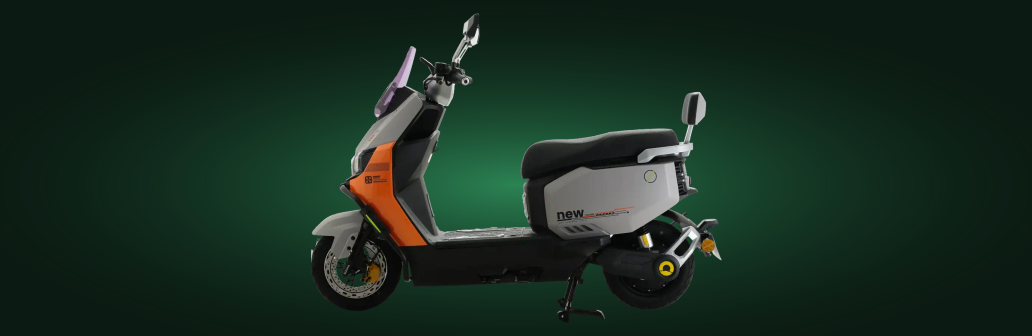
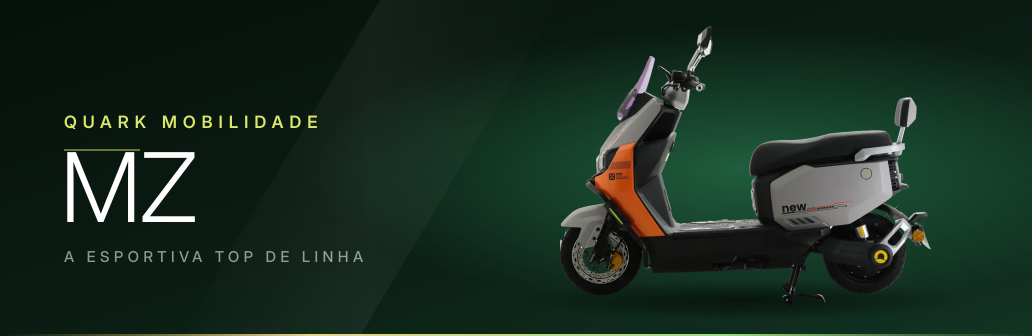
Cartão da scooter com visual premium (Google Wallet e área do cliente)
- Imagem de destaque nova por modelo: tipografia fina e espaçada, luz sobre a
  scooter, reflexo diagonal e fio dourado; logo redondo para o Google
- Frente do cartão com 2 linhas: proprietário, garantia, chassi e cor/ano;
  detalhes enxutos; links para área do cliente e assistência no WhatsApp
- Nova versão da classe/objeto (v2) para o Google aplicar o novo layout
- Cartão da área do cliente e imagem salva no mesmo visual

Claude-Session: https://claude.ai/code/session_01HxUxpawPH2uADxVLzMyBdD

diff --git a/src/components/cliente/wallet-card.tsx b/src/components/cliente/wallet-card.tsx
@@ -28,71 +28,72 @@ export function useCardQr(d: MotoData, id: string, company: { name: string; cnpj
   return qr;
 }
 
+const INTER = "var(--font-inter), 'Inter', system-ui, sans-serif";
+
 export function WalletCardView({ d, id, qr, art }: { d: MotoData; id: string; qr: string; art?: boolean }) {
   const model = vehicleName(d).replace(/^Scooter elétrica\s*/, "") || "Scooter";
   const end = d.delivery.date || d.date ? warrantyEnd(d) : "";
   const owner = d.client.name.trim().split(/\s+/).slice(0, 2).join(" ");
   const { number } = receiptNumber(id);
   const photo = d.photo || motoPhoto(d);
+  const label = { fontSize: "2.05cqw", letterSpacing: "0.22em", color: "#D9E86A", opacity: 0.8, fontWeight: 600 } as const;
   return (
     <div className="w-full [container-type:inline-size]" {...(art ? { "data-art": true } : {})}>
       <div
-        className="relative w-full overflow-hidden font-[family-name:var(--font-outfit)] text-white antialiased"
-        style={{ aspectRatio: "1.586", borderRadius: "5.5cqw", background: "#0B1A12", boxShadow: art ? "none" : "0 30px 60px -30px rgba(11,26,18,0.75)" }}
+        className="relative w-full overflow-hidden text-white antialiased"
+        style={{
+          aspectRatio: "1.586",
+          borderRadius: "4.6cqw",
+          fontFamily: INTER,
+          background: "linear-gradient(135deg, #06100A 0%, #0B1E14 55%, #133525 100%)",
+          boxShadow: art ? "none" : "0 40px 70px -34px rgba(6,16,10,0.85), inset 0 0 0 1px rgba(255,255,255,0.07)",
+        }}
       >
-        {/* brilho + scooter */}
-        <div className="absolute rounded-full" style={{ right: "-14%", top: "-8%", width: "78%", height: "120%", background: "radial-gradient(closest-side, rgba(79,195,138,0.45), rgba(79,195,138,0))" }} />
+        {/* luz sobre a scooter, reflexo diagonal e sombra no chão */}
+        <div className="absolute" style={{ right: "-12%", top: "-6%", width: "74%", height: "112%", background: "radial-gradient(closest-side, rgba(63,191,127,0.42), rgba(63,191,127,0))" }} />
+        <div className="absolute inset-y-0" style={{ left: "34%", width: "22%", transform: "skewX(-24deg)", background: "linear-gradient(90deg, rgba(255,255,255,0), rgba(255,255,255,0.05), rgba(255,255,255,0))" }} />
+        <div className="absolute rounded-[50%]" style={{ right: "6%", top: "54%", width: "46%", height: "6%", background: "radial-gradient(closest-side, rgba(0,0,0,0.55), rgba(0,0,0,0))" }} />
         {/* eslint-disable-next-line @next/next/no-img-element */}
-        <img src={photo} data-fallback="/mob/cmp-scooter.webp" alt="" className="absolute object-contain" style={{ right: "4%", top: "13%", width: "50%", height: "46%", filter: "drop-shadow(0 2cqw 2.4cqw rgba(0,0,0,0.55))" }} />
-        <div className="absolute inset-x-0 top-0" style={{ height: "1.2cqw", background: "linear-gradient(95deg,#1FA06A,#9FDB7C 60%,#D8E83C)" }} />
+        <img src={photo} data-fallback="/mob/cmp-scooter.webp" alt="" className="absolute object-contain" style={{ right: "5%", top: "9%", width: "50%", height: "50%", filter: "drop-shadow(0 1.6cqw 2cqw rgba(0,0,0,0.5))" }} />
+        <div className="absolute inset-x-0 bottom-0" style={{ height: "0.4cqw", background: "linear-gradient(90deg, rgba(201,168,74,0), #E8D48A 30%, #9FDB7C 70%, rgba(159,219,124,0))" }} />
 
-        <div className="relative flex h-full flex-col" style={{ padding: "5.5cqw 6cqw" }}>
-          <div className="flex items-center justify-between">
-            <span className="flex items-center" style={{ gap: "2cqw" }}>
-              {/* eslint-disable-next-line @next/next/no-img-element */}
-              <img src="/brand/logo-h-white.png" alt="Quark" style={{ height: "6.2cqw", width: "auto" }} />
-              <span className="font-semibold" style={{ fontSize: "4.2cqw", color: "#E4F04A" }}>
-                Mobilidade
-              </span>
-            </span>
-            <span className="font-bold tabular-nums" style={{ fontSize: "3cqw", letterSpacing: "0.08em", opacity: 0.65 }}>
+        <div className="relative flex h-full flex-col" style={{ padding: "6cqw 6.4cqw 5.4cqw" }}>
+          <div className="flex items-start justify-between">
+            <div>
+              <p style={{ fontSize: "2.3cqw", letterSpacing: "0.34em", color: "#D9E86A", fontWeight: 600 }}>QUARK MOBILIDADE</p>
+              <div style={{ width: "8cqw", height: "0.18cqw", background: "rgba(217,232,106,0.6)", margin: "1.6cqw 0 1.2cqw" }} />
+              <p className="truncate" style={{ fontSize: model.length > 8 ? "7.4cqw" : "9.4cqw", lineHeight: 1, letterSpacing: "-0.035em", fontWeight: 300, maxWidth: "48cqw" }}>
+                {model}
+              </p>
+              <p style={{ marginTop: "1.4cqw", fontSize: "1.9cqw", letterSpacing: "0.26em", opacity: 0.55, fontWeight: 500 }}>SCOOTER ELÉTRICA{d.color ? ` · ${d.color.toUpperCase()}` : ""}</p>
+            </div>
+            <span className="tabular-nums" style={{ fontSize: "2cqw", letterSpacing: "0.14em", opacity: 0.5, fontWeight: 500 }}>
               {number}
             </span>
           </div>
 
-          <div style={{ marginTop: "2.6cqw" }}>
-            <p className="font-bold uppercase" style={{ fontSize: "2.7cqw", letterSpacing: "0.18em", color: "#E4F04A" }}>
-              Scooter elétrica
-            </p>
-            <p className="truncate font-bold" style={{ fontSize: "7.6cqw", lineHeight: 1.05, letterSpacing: "-0.03em", maxWidth: "52%" }}>
-              {model}
-            </p>
-          </div>
-
           <div className="mt-auto flex items-end justify-between" style={{ gap: "4cqw" }}>
-            <div className="grid min-w-0 flex-1 grid-cols-2" style={{ columnGap: "4cqw", rowGap: "1.5cqw" }}>
+            <div className="grid min-w-0 flex-1" style={{ gridTemplateColumns: "1.35fr 0.75fr", columnGap: "3.4cqw", rowGap: "2.6cqw" }}>
               {[
-                ["Proprietário", owner || "—", true],
-                ["Chassi", d.chassis.trim().toUpperCase() || "—", true],
-                ["Garantia até", end ? dateBr(end) : "na entrega", false],
-                ["Cor · ano", [d.color, d.year].filter(Boolean).join(" · ") || "—", false],
-              ].map(([k, v, wide]) => (
-                <div key={k as string} className="min-w-0" style={wide ? { gridColumn: "span 2" } : undefined}>
-                  <p className="font-bold uppercase" style={{ fontSize: "2.3cqw", letterSpacing: "0.14em", color: "#E4F04A", opacity: 0.85 }}>
-                    {k}
-                  </p>
-                  <p className="truncate font-semibold" style={{ fontSize: "3.6cqw", lineHeight: 1.2 }}>
+                ["PROPRIETÁRIO", owner || "—"],
+                ["GARANTIA ATÉ", end ? dateBr(end) : "na entrega"],
+                ["CHASSI", d.chassis.trim().toUpperCase() || "—"],
+                ["ANO", d.year ? String(d.year) : "—"],
+              ].map(([k, v]) => (
+                <div key={k} className="min-w-0">
+                  <p style={label}>{k}</p>
+                  <p className="truncate" style={{ marginTop: "0.6cqw", fontSize: k === "CHASSI" ? "3cqw" : "3.3cqw", lineHeight: 1.15, fontWeight: 500, letterSpacing: k === "CHASSI" ? "0.03em" : "-0.01em" }}>
                     {v}
                   </p>
                 </div>
               ))}
             </div>
-            <div className="shrink-0 bg-white" style={{ padding: "1.4cqw", borderRadius: "2.4cqw" }}>
+            <div className="shrink-0 bg-white" style={{ padding: "1.3cqw", borderRadius: "2.2cqw", boxShadow: "0 1cqw 3cqw rgba(0,0,0,0.35)" }}>
               {qr ? (
                 // eslint-disable-next-line @next/next/no-img-element
-                <img src={qr} alt="QR code com os dados da compra" style={{ width: "19cqw", height: "19cqw", display: "block" }} />
+                <img src={qr} alt="QR code com os dados da compra" style={{ width: "17cqw", height: "17cqw", display: "block" }} />
               ) : (
-                <div style={{ width: "19cqw", height: "19cqw" }} />
+                <div style={{ width: "17cqw", height: "17cqw" }} />
               )}
             </div>
           </div>
@@ -155,7 +156,7 @@ export function WalletSection({
   const btn = "flex h-[52px] w-full items-center justify-center gap-2 rounded-2xl text-[15px] font-bold transition active:scale-[0.99] disabled:opacity-60";
   const googleBtn = wallet.google && signed && (
     <button key="g" type="button" onClick={google} disabled={!!busy} className={`${btn} bg-[#1F1F1F] text-white hover:bg-black`}>
-      {busy === "google" ? <Loader2 className="h-5 w-5 animate-spin" /> : <Smartphone className="h-5 w-5" />} Salvar no Google Wallet
+      {busy === "google" ? <Loader2 className="h-5 w-5 animate-spin" /> : <Smartphone className="h-5 w-5" />} Adicionar ao Google Wallet
     </button>
   );
 

diff --git a/src/lib/wallet-pass.ts b/src/lib/wallet-pass.ts
@@ -36,6 +36,8 @@ export interface WalletCard {
   back: WalletField[];
   qr: string;
   warrantyEnd: string;
+  /** Links do cartão: área do cliente e assistência pelo WhatsApp. */
+  links: { id: string; uri: string; description: string }[];
 }
 
 const clean = (v: string | null | undefined) => (v ?? "").replace(/\s+/g, " ").trim();
@@ -56,19 +58,16 @@ export function walletCard(d: MotoData, id: string, company: WalletCompany, port
   const back: WalletField[] = [
     { key: "owner_full", label: "Proprietário", value: clean(d.client.name) },
     { key: "doc", label: doc.length > 11 ? "CNPJ" : "CPF", value: doc.length > 11 ? formatDoc(doc) : maskDoc(doc) },
-    { key: "vehicle", label: "Veículo", value: [vehicleName(d), clean(d.color), d.year].filter(Boolean).join(" · ") },
-    { key: "motor", label: "Nº do motor", value: clean(d.motorNo).toUpperCase() },
-    { key: "battery", label: "Nº da bateria", value: clean(d.batteryNo).toUpperCase() },
-    { key: "charger", label: "Nº do carregador", value: clean(d.chargerNo).toUpperCase() },
-    { key: "specs", label: "Ficha técnica", value: [d.specs.power, d.specs.battery, d.specs.range && `autonomia ${d.specs.range}`, d.specs.speed].filter(Boolean).join(" · ") },
-    { key: "purchase", label: "Compra", value: d.date ? dateBr(d.date) : "" },
+    { key: "motor", label: "Motor", value: clean(d.motorNo).toUpperCase() },
+    { key: "battery", label: "Bateria", value: clean(d.batteryNo).toUpperCase() },
+    { key: "charger", label: "Carregador", value: clean(d.chargerNo).toUpperCase() },
+    { key: "specs", label: "Ficha técnica", value: [d.specs.power, d.specs.battery, d.specs.range && `${d.specs.range} de autonomia`, d.specs.speed].filter(Boolean).join(" · ") },
+    { key: "purchase", label: "Data da compra", value: d.date ? dateBr(d.date) : "" },
     { key: "warranty", label: "Garantia", value: end ? `${d.warrantyDays} dias contra defeitos de fabricação, até ${dateBr(end)}` : `${d.warrantyDays} dias a partir da entrega` },
-    { key: "legal", label: "Documento", value: "Veículo autopropelido (até 1.000 W e 32 km/h), sem placa e sem CNH, conforme a Resolução CONTRAN nº 996/2023." },
     { key: "receipt", label: "Comprovante", value: `${number}${code ? ` · código ${code}` : ""}` },
-    { key: "seller", label: "Vendedora", value: [company.name, company.cnpj && `CNPJ ${formatDoc(company.cnpj)}`, company.city].filter(Boolean).join(" · ") },
-    { key: "help", label: "Assistência", value: contact || "Fale com a Quark Mobilidade" },
-    { key: "portal", label: "Área do cliente", value: `${portalUrl} · manual, garantia e comprovante` },
-    { key: "care", label: "Dica", value: "Recarregue perto de 20%, use só o carregador original e evite jato d'água." },
+    { key: "legal", label: "Categoria", value: "Autopropelido · até 1.000 W e 32 km/h · sem placa e sem CNH (Resolução CONTRAN 996/2023)" },
+    { key: "help", label: "Assistência", value: contact || "Quark Mobilidade" },
+    { key: "seller", label: "Emitido por", value: [company.name, company.cnpj && `CNPJ ${formatDoc(company.cnpj)}`].filter(Boolean).join(" · ") },
   ].filter((f) => f.value);
 
   return {
@@ -89,6 +88,10 @@ export function walletCard(d: MotoData, id: string, company: WalletCompany, port
     ],
     back,
     qr: receiptQrText(d, id, { name: company.name, cnpj: company.cnpj }),
+    links: [
+      { id: "portal", uri: portalUrl, description: "Área do cliente · manual, garantia e comprovante" },
+      ...(company.whatsapp.replace(/\D/g, "").length >= 10 ? [{ id: "help", uri: `https://wa.me/55${company.whatsapp.replace(/\D/g, "").replace(/^55(?=\d{10,11}$)/, "")}`, description: "Assistência Quark pelo WhatsApp" }] : []),
+    ],
     warrantyEnd: end,
   };
 }

diff --git a/src/lib/wallet-google.ts b/src/lib/wallet-google.ts
@@ -85,30 +85,48 @@ export function googleWalletConfig(env: Env = process.env): GoogleWalletConfig |
   return { issuerId, clientEmail: sa.clientEmail, privateKey: sa.privateKey };
 }
 
+/** Versão do visual: muda o id da classe/objeto para o Google aplicar o novo layout. */
+const DESIGN = "v2";
+const pt = (value: string) => ({ defaultValue: { language: "pt-BR", value } });
+const titleCase = (v: string) => v.charAt(0) + v.slice(1).toLowerCase();
+
 export function googleWalletObjects(card: WalletCard, cfg: Pick<GoogleWalletConfig, "issuerId">, origin: string) {
-  const classId = `${cfg.issuerId}.quark_mobilidade_scooter`;
-  const objectId = `${cfg.issuerId}.${safeId(`scooter_${card.serial}`)}`;
-  const text = (h: string, b: string, id: string) => ({ header: h, body: b, id });
+  const classId = `${cfg.issuerId}.quark_scooter_${DESIGN}`;
+  const objectId = `${cfg.issuerId}.${safeId(`scooter_${DESIGN}_${card.serial}`)}`;
+  const front = [...card.secondary, ...card.auxiliary];
+  const field = (key: string) => ({ firstValue: { fields: [{ fieldPath: `object.textModulesData['${key}']` }] } });
   return {
-    genericClasses: [{ id: classId }],
+    genericClasses: [
+      {
+        id: classId,
+        // Frente do cartão: 2 linhas, 2 campos cada (o resto fica nos detalhes).
+        classTemplateInfo: {
+          cardTemplateOverride: {
+            cardRowTemplateInfos: [
+              { twoItems: { startItem: field(front[0].key), endItem: field(front[1].key) } },
+              { twoItems: { startItem: field(front[2].key), endItem: field(front[3].key) } },
+            ],
+          },
+        },
+      },
+    ],
     genericObjects: [
       {
         id: objectId,
         classId,
         state: "ACTIVE",
         hexBackgroundColor: "#0B1A12",
-        logo: { sourceUri: { uri: `${origin}/wallet/icon@3x.png` }, contentDescription: { defaultValue: { language: "pt-BR", value: "Quark Mobilidade" } } },
-        cardTitle: { defaultValue: { language: "pt-BR", value: "Quark Mobilidade" } },
-        subheader: { defaultValue: { language: "pt-BR", value: "Scooter elétrica" } },
-        header: { defaultValue: { language: "pt-BR", value: [card.model, card.color].filter(Boolean).join(" · ") } },
-        heroImage: { sourceUri: { uri: `${origin}/wallet/hero-${card.art}.png` }, contentDescription: { defaultValue: { language: "pt-BR", value: card.model } } },
+        logo: { sourceUri: { uri: `${origin}/wallet/logo-google.png` }, contentDescription: pt("Quark Mobilidade") },
+        cardTitle: pt("Quark Mobilidade"),
+        subheader: pt(card.color ? `Scooter elétrica · ${card.color}` : "Scooter elétrica"),
+        header: pt(card.model),
+        heroImage: { sourceUri: { uri: `${origin}/wallet/hero-${card.art}.png` }, contentDescription: pt(`Scooter ${card.model}`) },
         textModulesData: [
-          ...card.secondary.map((f) => text(f.label, f.value, f.key)),
-          ...card.auxiliary.map((f) => text(f.label, f.value, f.key)),
-          ...card.back.map((f) => text(f.label, f.value, `b_${f.key}`)),
+          ...front.map((f) => ({ id: f.key, header: titleCase(f.label), body: f.value })),
+          ...card.back.map((f) => ({ id: `b_${f.key}`, header: f.label, body: f.value })),
         ].slice(0, 20),
         barcode: { type: "QR_CODE", value: card.qr, alternateText: card.number },
-        linksModuleData: { uris: [{ uri: `${origin}/cliente`, description: "Área do cliente: manual, garantia e comprovante", id: "portal" }] },
+        linksModuleData: { uris: card.links.map((l) => ({ uri: l.uri, description: l.description, id: l.id })) },
       },
     ],
   };

diff --git a/src/lib/wallet.test.ts b/src/lib/wallet.test.ts
@@ -43,7 +43,15 @@ test("wallet: link do Google assinado com a conta de serviço", () => {
   const claims = JSON.parse(Buffer.from(p, "base64url").toString());
   assert.equal(claims.typ, "savetowallet");
   const obj = claims.payload.genericObjects[0];
-  assert.match(obj.id, /^3388000000012345678\.scooter_0a1b2c3d/);
+  assert.match(obj.id, /^3388000000012345678\.scooter_v2_0a1b2c3d/);
+  const cls = claims.payload.genericClasses[0];
+  const rows = cls.classTemplateInfo.cardTemplateOverride.cardRowTemplateInfos;
+  assert.equal(rows.length, 2);
+  const ids = obj.textModulesData.map((t: { id: string }) => t.id);
+  for (const r of rows) for (const side of ["startItem", "endItem"]) assert.ok(ids.includes(r.twoItems[side].firstValue.fields[0].fieldPath.match(/'(.+)'/)[1]));
+  assert.equal(obj.header.defaultValue.value, "Cappuccino");
+  assert.equal(obj.logo.sourceUri.uri, "https://x.app/wallet/logo-google.png");
+  assert.ok(obj.linksModuleData.uris.some((u: { uri: string }) => u.uri.startsWith("https://wa.me/5582991831476")));
   assert.equal(obj.heroImage.sourceUri.uri, "https://x.app/wallet/hero-cappuccino.png");
   assert.ok(obj.textModulesData.length <= 20);
   assert.equal(googleWalletConfig({}), null);
